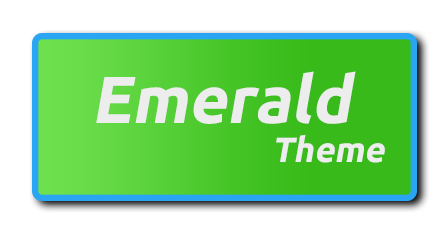
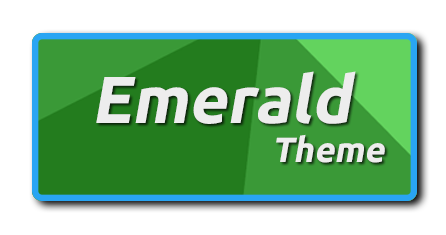
New Emerald Theme

diff --git a/code.js b/code.js
@@ -255,12 +255,16 @@ function LGBT2017(){
     // Save theme
     createCookie("LGBT2017", true, 10000);
     
+    // Set Text Color
+        document.getElementById("home_page").style.color = "white";
+    
     // Change colors and banner
         document.getElementById("background_div").style.backgroundColor = "#bc3131";
         document.getElementById("header_table").style.backgroundImage = "url(img/banner_lgbt_2017.gif)";
 
     // Change to theme 
     createCookie("Theme", "LGBT2017", 10000);
+    
     
     
     
@@ -271,6 +275,10 @@ function Sweden(){
     
     // Save theme
     createCookie("Sweden", true, 10000);
+    
+    // Set Text Color
+        document.getElementById("home_page").style.color = "white";
+    
     
     // Change colors
     document.getElementById("background_div").style.backgroundColor = "#1c263a";
@@ -294,6 +302,9 @@ function Halloween2017(){
     // Save theme
     createCookie("Halloween2017", true, 10000);
     
+    // Set Text Color
+        document.getElementById("home_page").style.color = "white";
+    
     // Change colors
         document.getElementById("background_div").style.backgroundColor = "#111111";
         document.getElementById("header_table").style.backgroundImage = "url(img/banner_halloween2017.gif)";
@@ -313,8 +324,12 @@ function Emerald(){
     createCookie("Emerald", true, 10000);
     
     // Change colors
-        document.getElementById("background_div").style.backgroundColor = "#6df75b";
-        document.getElementById("header_table").style.backgroundColor = "#43a337";
+        
+        // Set Text Color
+        document.getElementById("home_page").style.color = "white";
+        
+        document.getElementById("background_div").style.backgroundColor = "#03492b";
+        document.getElementById("header_table").style.backgroundColor = "#1e603d";
         document.getElementById("header_table").style.backgroundImage = "url()";
 // IMG        document.getElementById("header_table").style.backgroundImage = "url()";
     
@@ -332,6 +347,9 @@ function superDark(){
         createCookie("superDark", true, 10000);
         console.log("Saved superDark");
         console.log("superDark skin selected!");
+        
+        // Set Text Color
+        document.getElementById("home_page").style.color = "white";
         
         // Change colors
         document.getElementById("background_div").style.backgroundColor = "#3a3a3a";
@@ -351,6 +369,8 @@ function superDark(){
 
 // Change to Theme: Red
 function ThemeRed(){
+        // Set Text Color
+        document.getElementById("home_page").style.color = "white";
         // Background color
         document.getElementById("background_div").style.backgroundColor = "#ce2d2d";
         // Header color
@@ -365,7 +385,9 @@ function ThemeRed(){
 
 // Change to Theme: Default
 function ThemeDefault(){
-        
+        // Set Text Color
+        document.getElementById("home_page").style.color = "white";
+    
         document.getElementById("background_div").style.backgroundColor = "#2d3f53";
         document.getElementById("header_table").style.backgroundColor = "#436a95";
         console.log("Defualt theme is selected.");

diff --git a/items.html b/items.html
@@ -19,6 +19,10 @@
             
         </div>    
            
+         
+         <div id="claim_credits_div">
+                <span id="insert_claim_button_here"></span>
+            </div>   
         
          <!-- Buttons (duh..) -->
         <div id="top_buttons">
